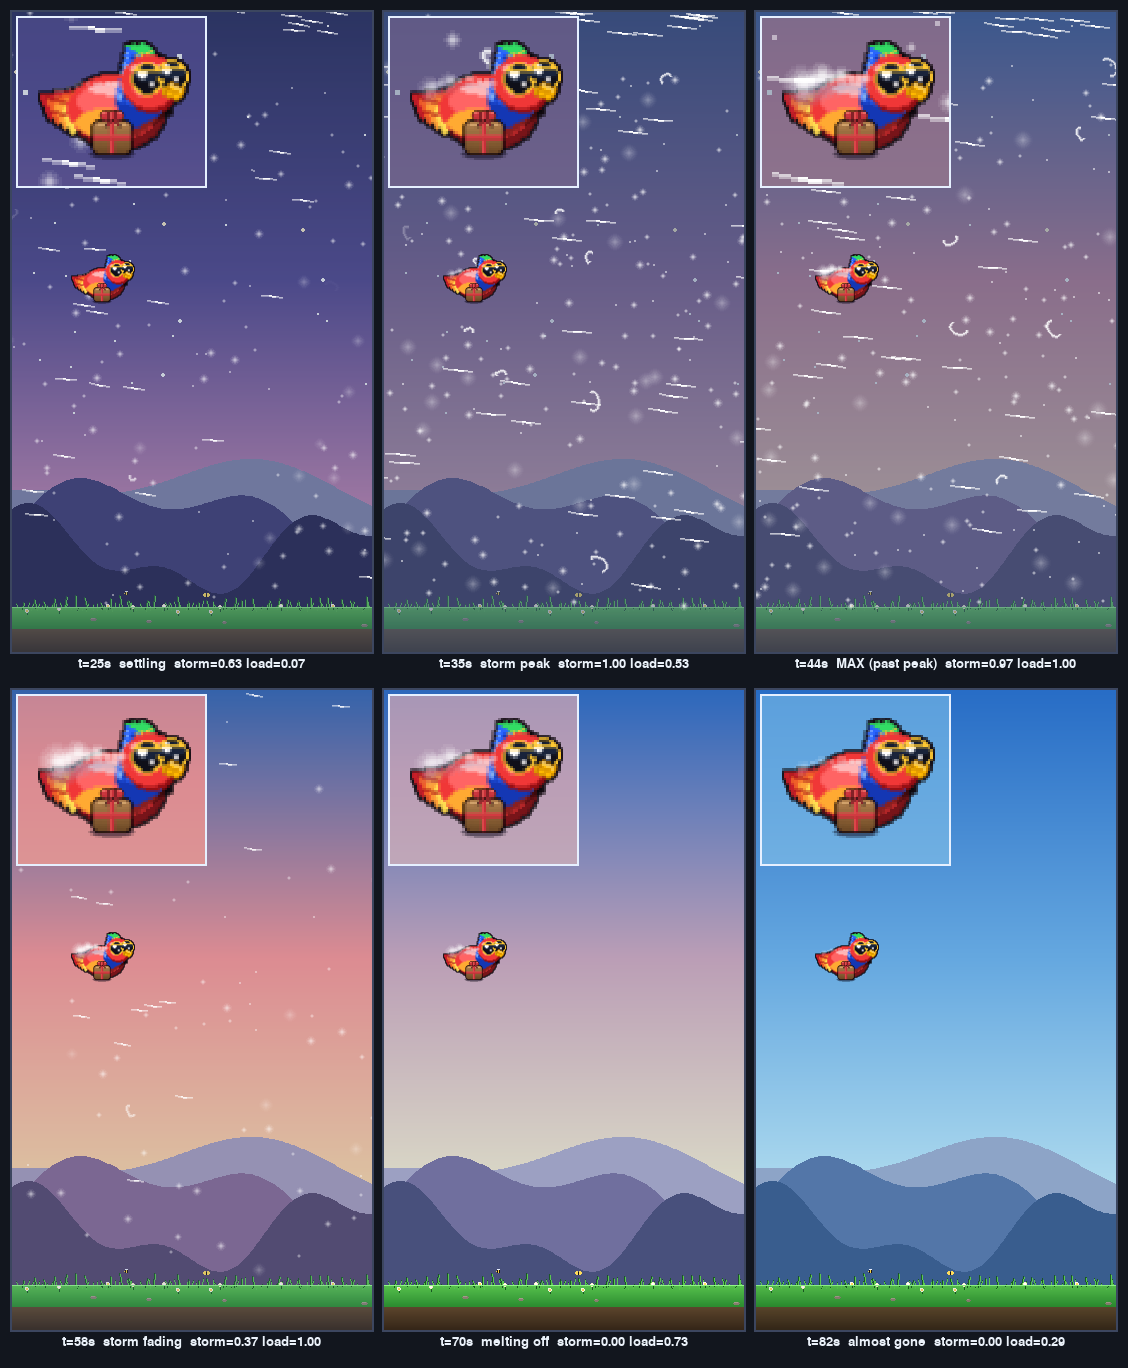
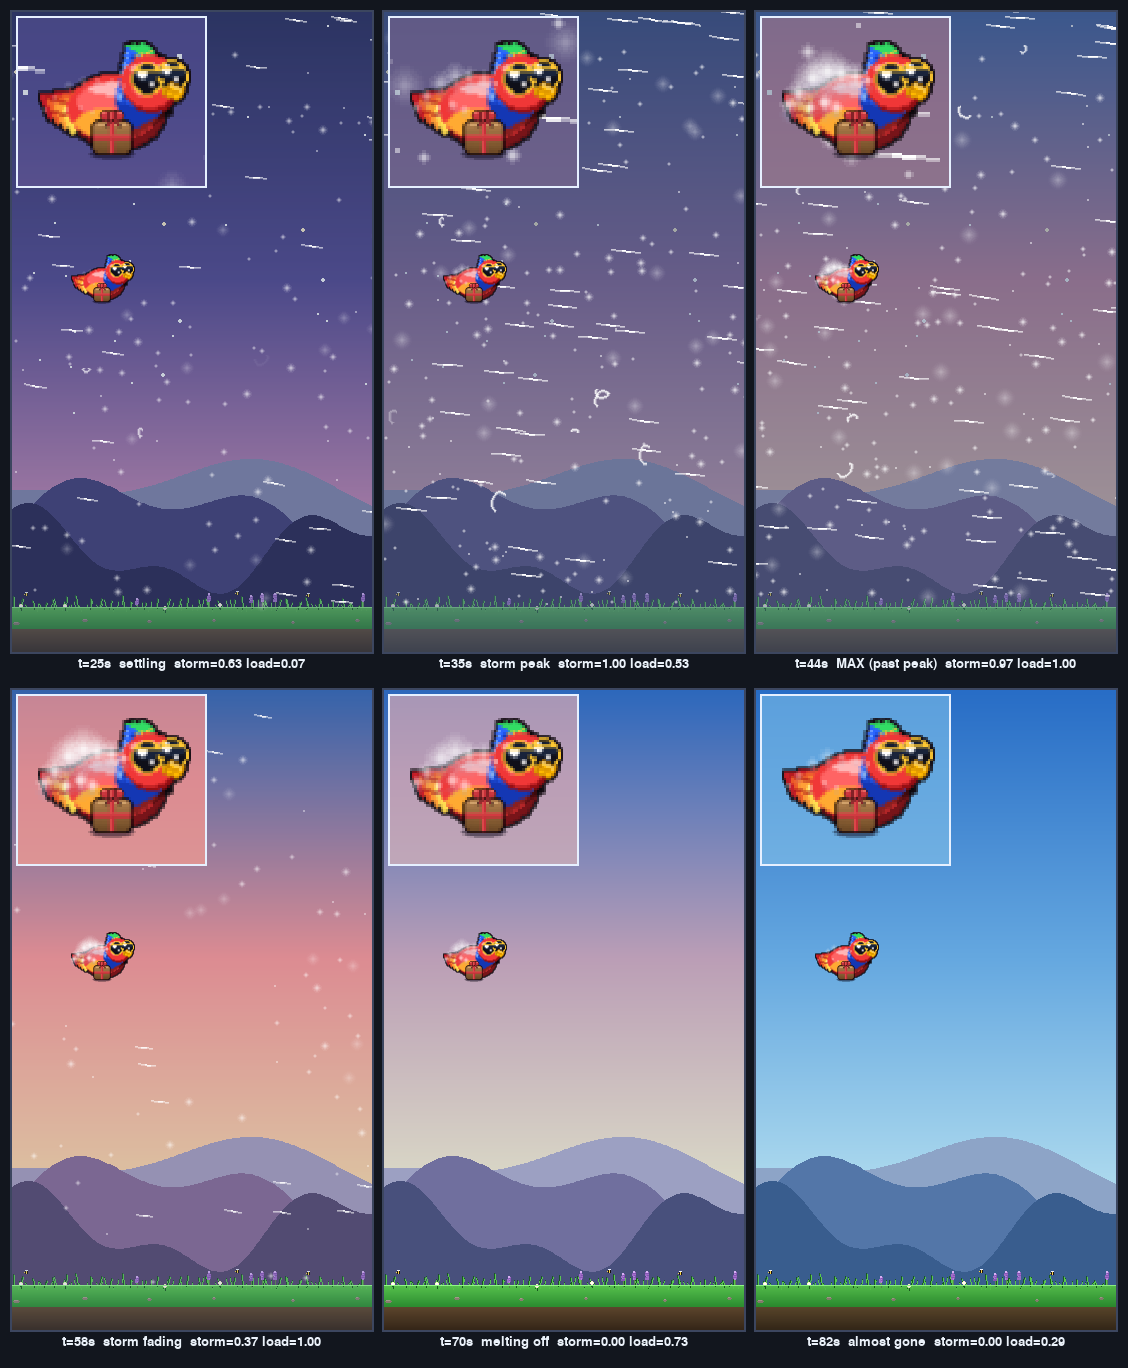
snow on back: extend to Pip's whole windward rear + more mass
Clarified intent: "back" = Pip's entire rear/windward side (he
faces right, so his left) — the tail and wing/flank too, not just
the dorsal hump. And more snow.

* Replaced the single back-arc with _SNOW_ANCHORS covering the
  tail tip, tail upper edge, rump, back hump, wing top and the
  windward flank — each weighted (heaviest on the broad back/rump,
  lighter on the thin tail + the front taper).
* Bumped blob radius (max ~11 px on the back at full load) so the
  drift reads as a fuller, more massive coating — still tasteful,
  Pip stays clearly readable (not buried).
* Under-shadow + lumpy deterministic top edge carried over.

Accumulation curve, fade behaviour and the integrator are
unchanged. Buildup sheet regenerated. Tests: 22/22.

diff --git a/game/entities.py b/game/entities.py
@@ -279,20 +279,40 @@ def _soft_tint_disc(radius, color, alpha):
     return surf
 
 
+# Snow-catch anchors over Pip's whole windward REAR. He faces +x
+# (right), so the tailwind drives snow onto everything facing -x:
+# the tail (far left), the rump + back hump, the wing, and a bit
+# down the windward side. Each is (sprite-rel x, y, weight) where
+# weight = how much snow settles there (heaviest on the broad
+# back/rump, lighter on the thin tail tip + the front edge).
+# Centre = (0,0); sprite is 68×64, body bbox x∈[-31,33] y∈[-26,22].
+_SNOW_ANCHORS = (
+    (-28.0,  4.0, 0.50),   # tail tip
+    (-24.0, -0.5, 0.78),   # tail upper edge
+    (-19.0,  4.5, 0.55),   # tail/rump windward, lower
+    (-18.0, -5.0, 1.00),   # rump / back start  (main mass)
+    (-12.0, -7.6, 1.00),   # back hump
+    (-13.0,  3.0, 0.62),   # windward flank
+    (-6.0,  -8.0, 0.96),   # back hump crest
+    (-8.0,   5.0, 0.45),   # wing top, windward
+    (0.0,   -7.2, 0.74),   # back toward neck
+    (5.0,   -6.0, 0.44),   # neck base (taper out front)
+)
+
+
 def _draw_snow_cap(surf, cx, cy, load, scale=1.0, tilt=0.0):
-    """Snowdrift settled on Pip's back during the squall. The
-    tailwind blows snow onto him from behind (his left/rear), so
-    the drift hugs his dorsal hump — thicker toward the back
-    (rump) and tapering toward the neck. Built from overlapping
-    soft white blobs along the back's top contour; `load` (0..1)
-    scales both thickness and opacity so it fades in as snow
-    settles and melts away cleanly. Sprite-relative coords: +x is
-    forward (right, the way Pip faces), centre at (0,0)."""
+    """Snowdrift settled over Pip's whole windward rear during the
+    squall. The tailwind blows snow onto everything facing his
+    back (his left): the tail, rump, back hump, wing and the
+    windward flank. Built from overlapping soft white blobs at the
+    `_SNOW_ANCHORS`; `load` (0..1) scales thickness + opacity so it
+    fades in as snow settles and melts away cleanly. Two passes —
+    a cool under-shadow for volume, then the white drift with a
+    deterministic lumpy size (no per-frame randomness → no
+    flicker). +x is forward (right), centre at (0,0)."""
     load = max(0.0, min(1.0, load))
     sc = scale
-    x_back, x_front = -23.0, 4.0          # rump → base of neck
-    n = 11
-    base_a = int(min(235, 55 + load * 180))
+    base_a = int(min(240, 65 + load * 175))
     cos_t = math.cos(math.radians(tilt))
     sin_t = math.sin(math.radians(tilt))
 
@@ -303,35 +323,29 @@ def _draw_snow_cap(surf, cx, cy, load, scale=1.0, tilt=0.0):
         surf.blit(disc, (int(cx + rx * sc - disc.get_width() / 2),
                          int(cy + ry * sc - disc.get_height() / 2)))
 
-    # Pass 1 — cool under-shadow: a faint blue-grey row just below
-    # the drift so the white snow reads as a raised volume sitting
-    # on the body rather than a flat highlight.
-    for i in range(n):
-        t = i / (n - 1)
-        xr = x_back + (x_front - x_back) * t
-        yr = -7.0 + 0.013 * (xr + 5.0) ** 2
-        backw = 1.0 - 0.5 * t
-        rad = (2.5 + load * 7.0) * backw * sc
+    # radius per anchor — bigger overall than the back-only version
+    # so the rear reads as a fuller, more massive drift (still
+    # tasteful: max ~11 px on the broad back at full load).
+    def radius(weight, lump=1.0):
+        return (3.0 + load * 8.5) * weight * lump * sc
+
+    # Pass 1 — cool blue-grey under-shadow just below each blob so
+    # the snow reads as raised volume, not a flat highlight.
+    for xr, yr, wt in _SNOW_ANCHORS:
+        rad = radius(wt)
         if rad < 1.0:
             continue
-        oy = yr + rad * 0.15      # shadow sits a touch lower
-        sh = _soft_tint_disc(rad * 0.9, (150, 170, 205),
-                             int(base_a * 0.45))
-        place(xr, oy, rad, sh)
+        place(xr, yr + rad * 0.18, rad,
+              _soft_tint_disc(rad * 0.92, (150, 170, 205),
+                              int(base_a * 0.42)))
 
-    # Pass 2 — the white drift. A small deterministic cosine
-    # undulates the top edge + blob size so it reads as lumpy snow
-    # (stable frame-to-frame: no per-frame randomness → no flicker).
-    for i in range(n):
-        t = i / (n - 1)
-        xr = x_back + (x_front - x_back) * t
-        yr = -7.0 + 0.013 * (xr + 5.0) ** 2
-        lump = 0.82 + 0.18 * math.cos(i * 1.9)        # 0.64..1.0
-        backw = 1.0 - 0.5 * t
-        rad = (2.5 + load * 7.0) * backw * lump * sc
+    # Pass 2 — the white drift.
+    for idx, (xr, yr, wt) in enumerate(_SNOW_ANCHORS):
+        lump = 0.84 + 0.16 * math.cos(idx * 1.7)      # 0.68..1.0
+        rad = radius(wt, lump)
         if rad < 0.8:
             continue
-        oy = yr - rad * 0.40 - load * 1.2             # rests on top
+        oy = yr - rad * 0.34 - load * 1.0             # rests on top
         place(xr, oy, rad, _soft_white_disc(rad, base_a))
 
 
